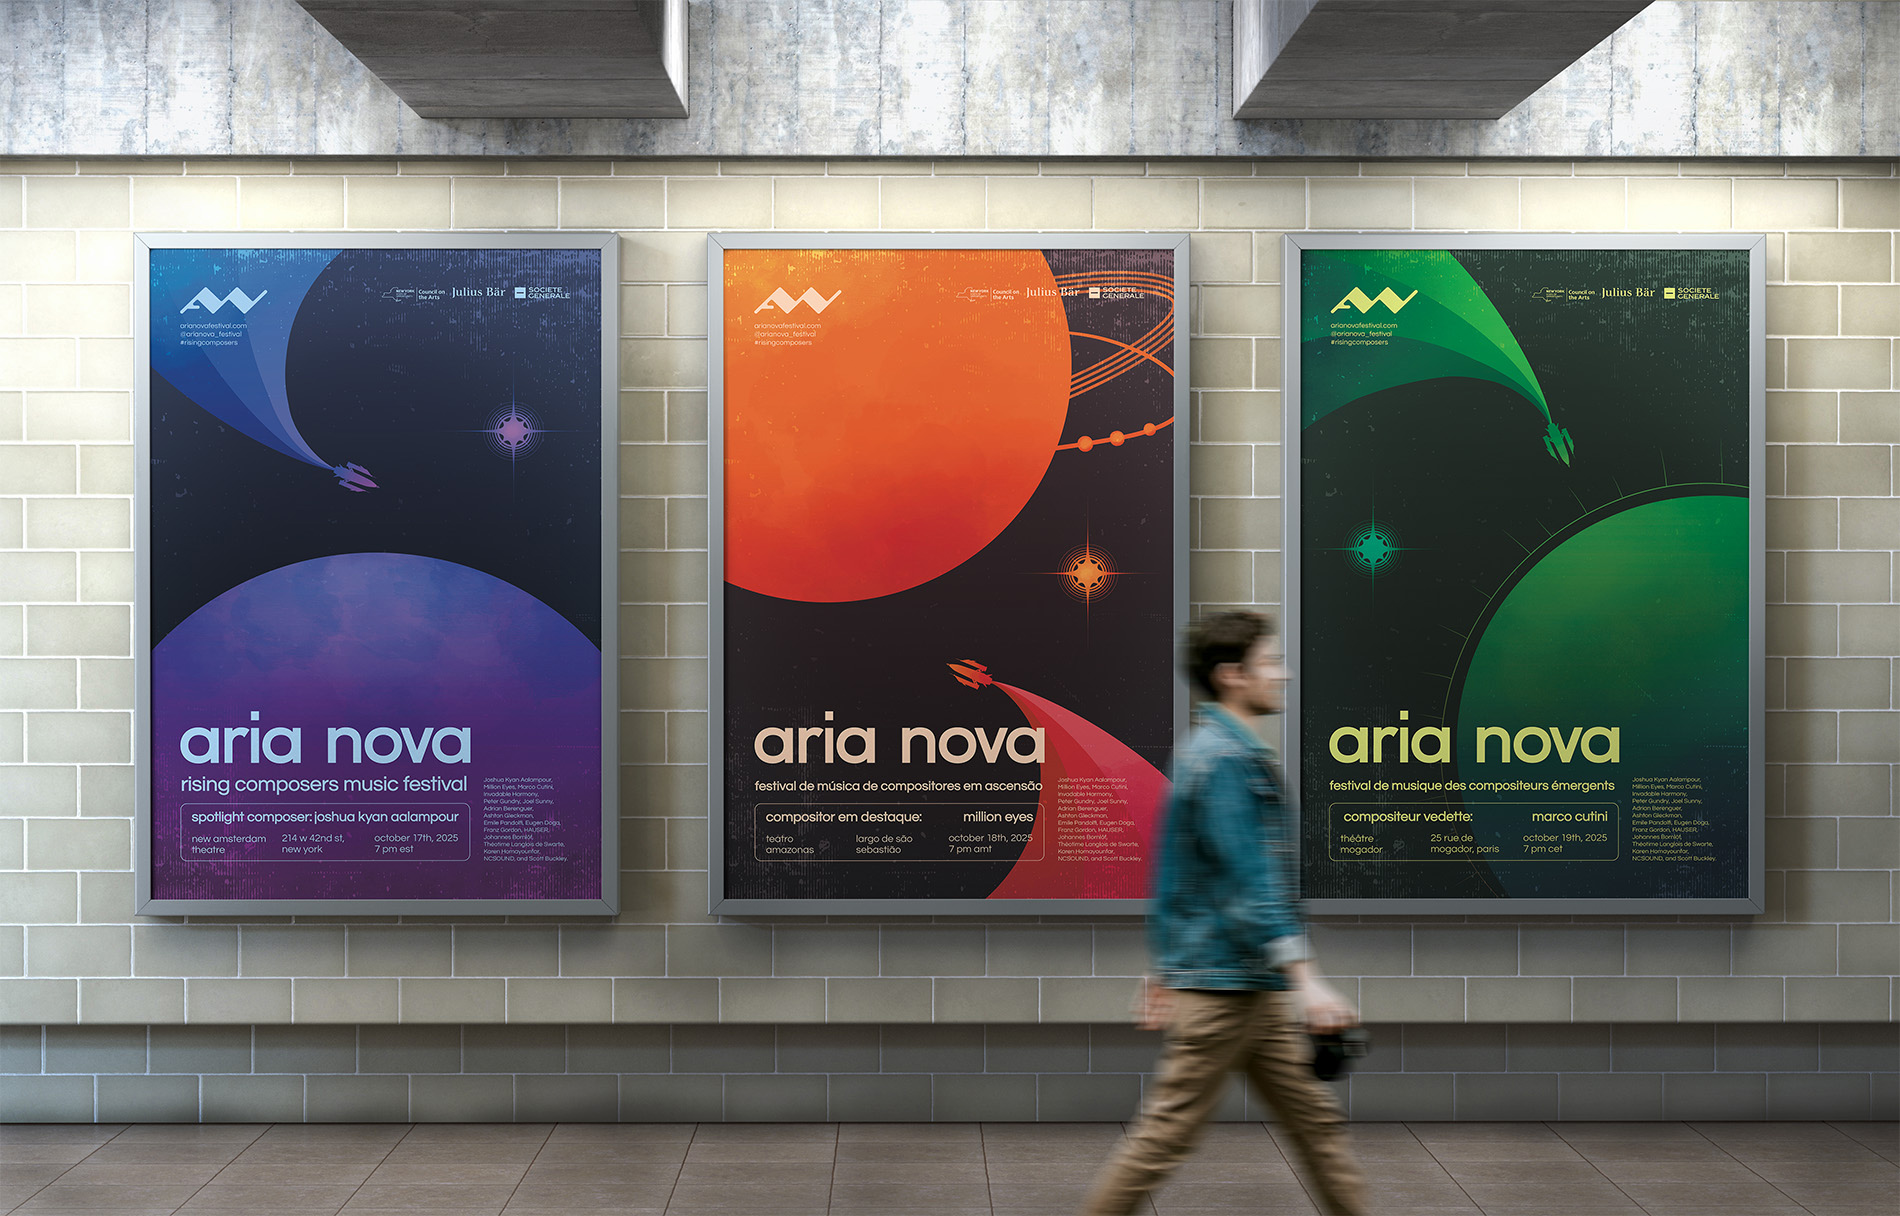
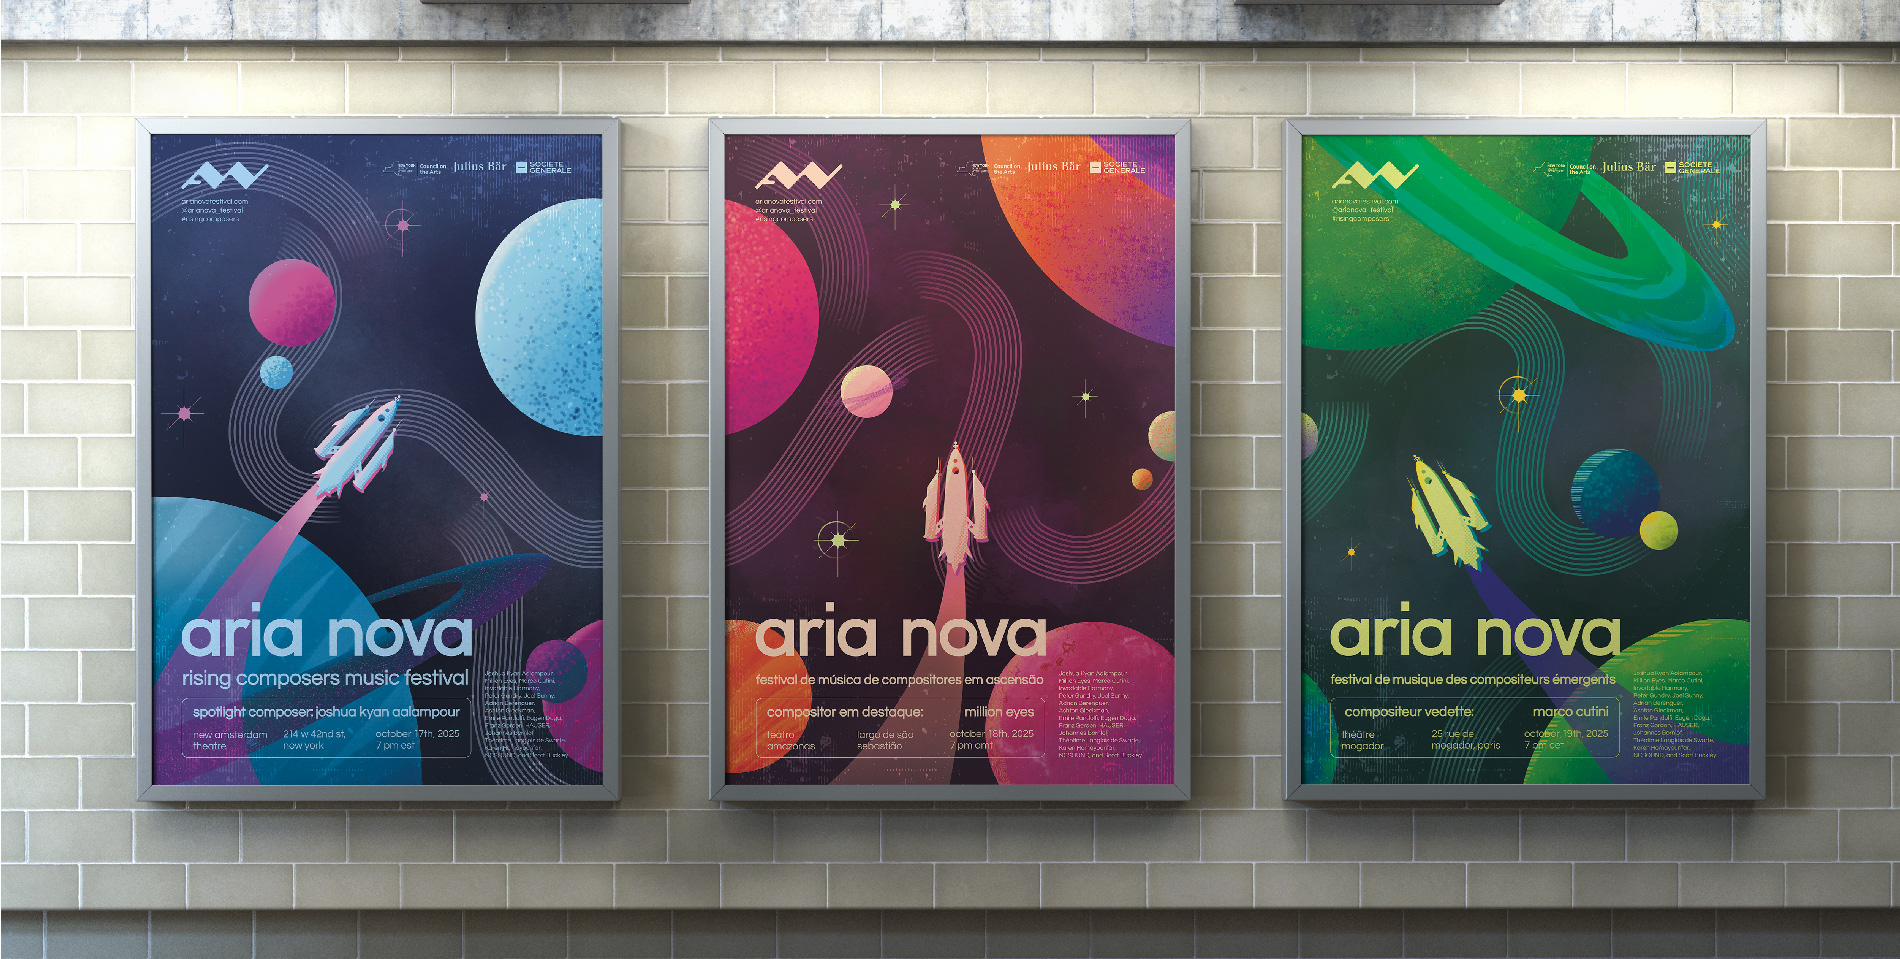
aria nova updates

diff --git a/aria-nova.html b/aria-nova.html
@@ -61,14 +61,20 @@
         <figure class="project-image">
           <img src="assets/aria-nova/aria-nova-mockup.jpg" width="1920" height="1080" loading="lazy" alt="A mockup of 3 Aria Nova posters lined up in a row."/>
         </figure>
+         <figure class="project-image">
+          <img src="assets/aria-nova/aria-nova-brochure.jpg" width="1920" height="1080" loading="lazy" alt="A mockup of the Aria Nova program booklet, featuring a spread of the festival schedule and the first artist's biographic page."/>
+        </figure>
+         <figure class="project-image">
+          <img src="assets/aria-nova/aria-nova-tickets.jpg" width="1920" height="1080" loading="lazy" alt="A mockup of Aria Nova paper tickets spread out in a diagonal pattern."/>
+        </figure>
         <figure class="project-image">
-          <img src="assets/aria-nova/aria-nova-blue.jpg" width="1920" height="1080" loading="lazy" alt="The 1st poster from the Aria Nova music festival series."/>
+          <img src="assets/aria-nova/aria-nova-blue.jpg" width="1920" height="1080" loading="lazy" alt="The 1st poster from the Aria Nova music festival series, featuring a rocketship flying through a blue space setting."/>
         </figure>
          <figure class="project-image">
-          <img src="assets/aria-nova/aria-nova-orange.jpg" width="1920" height="1080" loading="lazy" alt="The 2nd poster from the Aria Nova music festival series."/>
+          <img src="assets/aria-nova/aria-nova-orange.jpg" width="1920" height="1080" loading="lazy" alt="The 2nd poster from the Aria Nova music festival series, featuring a rocketship flying through a pink space setting."/>
         </figure>
          <figure class="project-image">
-          <img src="assets/aria-nova/aria-nova-green.jpg" width="1920" height="1080" loading="lazy" alt="The 3rd poster from the Aria Nova music festival series."/>
+          <img src="assets/aria-nova/aria-nova-green.jpg" width="1920" height="1080" loading="lazy" alt="The 3rd poster from the Aria Nova music festival series, featuring a rocketship flying through a green space setting."/>
         </figure>
       </main>
     </div>

diff --git a/index.html b/index.html
@@ -117,7 +117,7 @@ a dash of hospitality.</h3>
             <a href="twinings.html">
               <div class="project-details-overlay overlay rounded-large centered-text">
                 <h1 class="work-grid-project-title">Twinings Tea</h1>
-                <h4 class="work-grid-project-category">Packaging &amp;Illustration</h4>
+                <h4 class="work-grid-project-category">Packaging &amp; Illustration</h4>
               </div>
             </a>
           </li>
